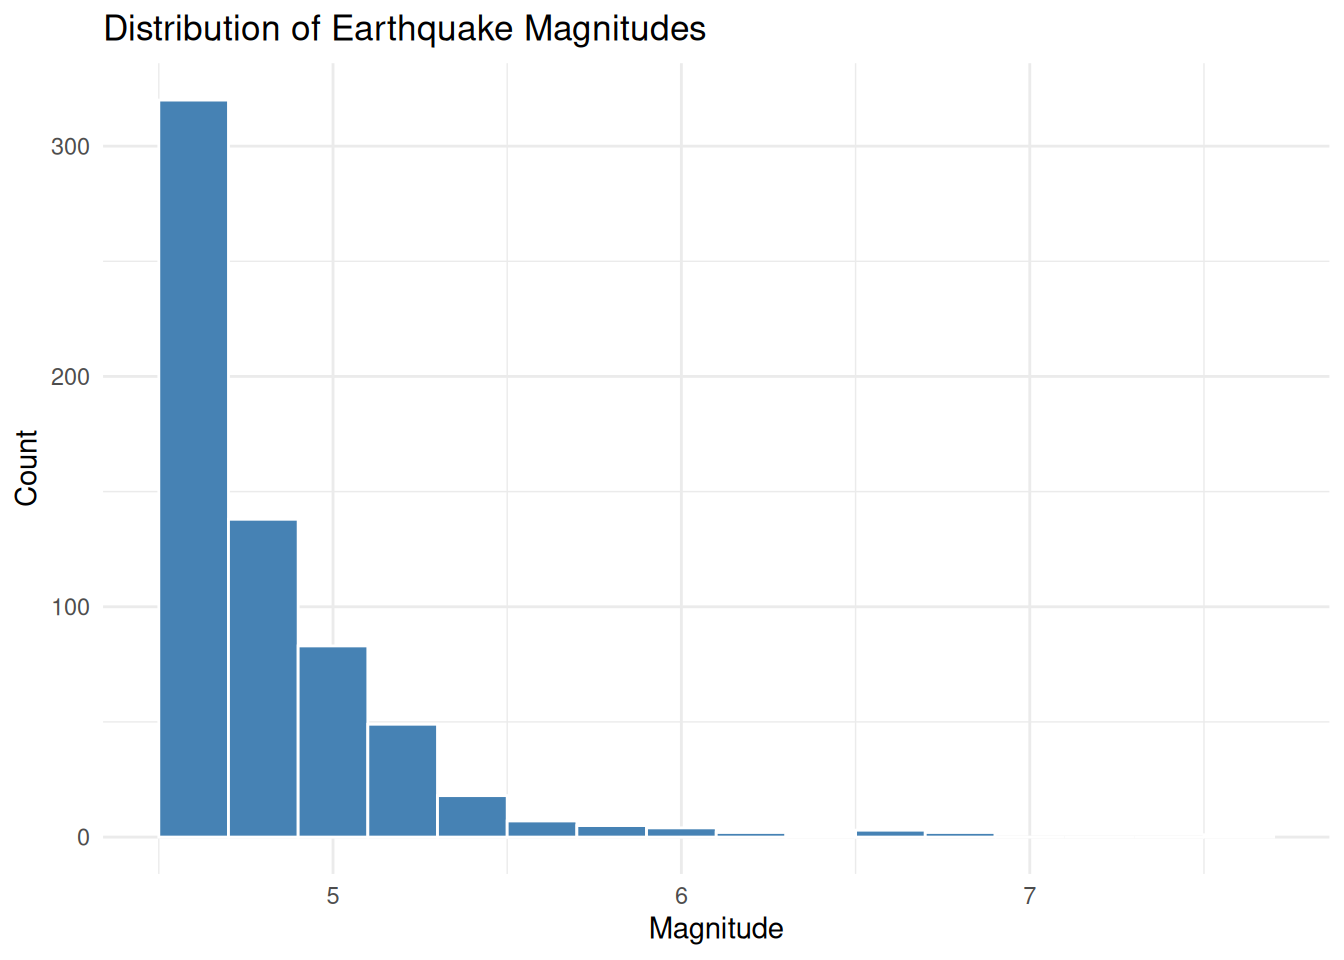
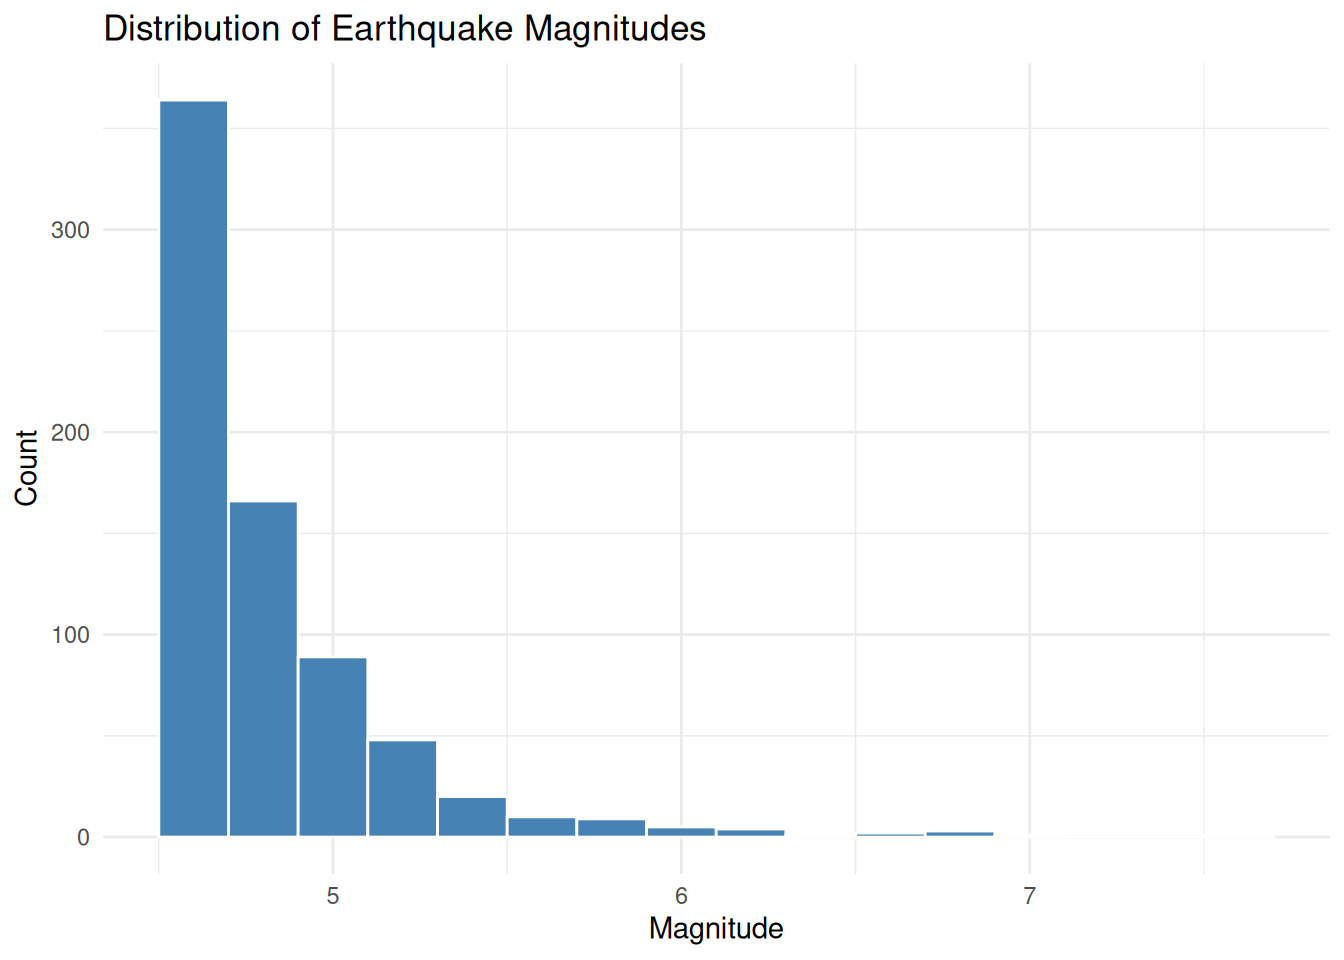
Built site for gh-pages

diff --git a/report.html b/report.html
@@ -153,7 +153,7 @@ ul.task-list li input[type="checkbox"] {
 
 <section id="overview" class="level2">
 <h2 class="anchored" data-anchor-id="overview">Overview</h2>
-<p>In the past 30 days, USGS recorded 633 earthquakes of magnitude 4.5 or greater. The strongest was a magnitude 7.7 near 12 km WSW of Pitaloza Arriba, Panama.</p>
+<p>In the past 30 days, USGS recorded 723 earthquakes of magnitude 4.5 or greater. The strongest was a magnitude 7.7 near 12 km WSW of Pitaloza Arriba, Panama.</p>
 </section>
 <section id="top-10-strongest-earthquakes" class="level2">
 <h2 class="anchored" data-anchor-id="top-10-strongest-earthquakes">Top 10 Strongest Earthquakes</h2>
@@ -174,6 +174,16 @@ ul.task-list li input[type="checkbox"] {
 <td style="text-align: left;">12 km WSW of Pitaloza Arriba, Panama</td>
 </tr>
 <tr class="even">
+<td style="text-align: left;">2026-10-22</td>
+<td style="text-align: right;">7.0</td>
+<td style="text-align: left;">191 km ENE of Nagqu, China</td>
+</tr>
+<tr class="odd">
+<td style="text-align: left;">2026-10-24</td>
+<td style="text-align: right;">6.9</td>
+<td style="text-align: left;">197 km WNW of Port-Olry, Vanuatu</td>
+</tr>
+<tr class="even">
 <td style="text-align: left;">2026-10-16</td>
 <td style="text-align: right;">6.9</td>
 <td style="text-align: left;">76 km NE of Ozernovskiy, Russia</td>
@@ -189,34 +199,29 @@ ul.task-list li input[type="checkbox"] {
 <td style="text-align: left;">central Mid-Atlantic Ridge</td>
 </tr>
 <tr class="odd">
-<td style="text-align: left;">2026-09-25</td>
-<td style="text-align: right;">6.7</td>
-<td style="text-align: left;">74 km ENE of Tadine, New Caledonia</td>
-</tr>
-<tr class="even">
 <td style="text-align: left;">2026-10-09</td>
 <td style="text-align: right;">6.6</td>
 <td style="text-align: left;">12 km W of Río Grande, Panama</td>
 </tr>
+<tr class="even">
+<td style="text-align: left;">2026-10-25</td>
+<td style="text-align: right;">6.5</td>
+<td style="text-align: left;">Bonin Islands, Japan region</td>
+</tr>
 <tr class="odd">
-<td style="text-align: left;">2026-09-20</td>
-<td style="text-align: right;">6.4</td>
-<td style="text-align: left;">50 km NNE of Kainantu, Papua New Guinea</td>
+<td style="text-align: left;">2026-10-24</td>
+<td style="text-align: right;">6.3</td>
+<td style="text-align: left;">170 km NW of Port-Olry, Vanuatu</td>
 </tr>
 <tr class="even">
+<td style="text-align: left;">2026-10-20</td>
+<td style="text-align: right;">6.3</td>
+<td style="text-align: left;">197 km NW of Port-Olry, Vanuatu</td>
+</tr>
+<tr class="odd">
 <td style="text-align: left;">2026-10-08</td>
 <td style="text-align: right;">6.3</td>
 <td style="text-align: left;">102 km NE of Norsup, Vanuatu</td>
-</tr>
-<tr class="odd">
-<td style="text-align: left;">2026-10-11</td>
-<td style="text-align: right;">6.2</td>
-<td style="text-align: left;">79 km SSE of Panguna, Papua New Guinea</td>
-</tr>
-<tr class="even">
-<td style="text-align: left;">2026-10-12</td>
-<td style="text-align: right;">6.1</td>
-<td style="text-align: left;">17 km W of Río Grande, Panama</td>
 </tr>
 </tbody>
 </table>
